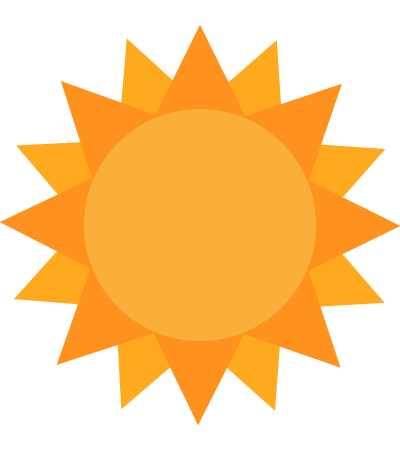
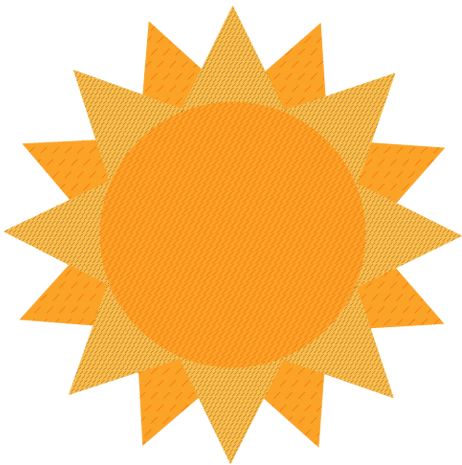
final update

diff --git a/public/css/global.css b/public/css/global.css
@@ -11,13 +11,16 @@ body#sunny {
 	font-size: 24px;
 	color: #fff;
 	position: relative;
+	background-image: url("../img/bg_blue5.png");
+background-repeat: repeat;
 }
 
 body#not-sunny {
-	background-color: #333;
+background-image: url("../img/bg_notsunny.png");
+background-repeat: repeat;
 	font-family: "Ariel", "Helvetica", "sans-serif";
 	font-size: 24px;
-	color: #333;
+	color: #fff;
 	position: relative;
 }
 
@@ -45,18 +48,18 @@ h1, h2 {
 	margin: 0 auto;
 	background-image: url("../img/sun.png");
 	background-repeat: no-repeat;
-	height: 550px;
-	padding: 10px 30px 30px 30px;
+	height: 481px;
+	padding: 30px 30px 30px 30px;
 	background-position: top center;
 }
 
 #not-sunny #main-content {
 	width: 600px;
 	margin: 0 auto;
-	background-image: url("../img/clouds.png");
+	background-image: url("../img/clouds3.png");
 	background-repeat: no-repeat;
-	height: 366px;
-	padding: 10px 30px 30px 30px;
+	height: 364px;
+	padding: 30px 30px 30px 30px;
 	background-position: center;
 }
 
@@ -65,7 +68,7 @@ h1, h2 {
 }
 
 #not-sunny #text {
-	margin-top: 170px;
+	margin-top: 150px;
 }
 
 
@@ -75,19 +78,32 @@ h1, h2 {
 /* FOOTER ----------------------------------------*/
 
 #sunny #footer {
-	height: 123px;
-	background-image: url("../img/flowers.png");
+	height: 299px;
+	background-image: url("../img/trees_green.png");
 	background-position: top center;
 	background-repeat: no-repeat;
 	width: 100%;
 	position: fixed;
 	bottom: 0;
 	left: 0;
+	z-index: 9999;
+	}
+	
+#not-sunny #footer {
+	height: 299px;
+	background-image: url("../img/trees_blck.png");
+	background-position: top center;
+	background-repeat: no-repeat;
+	width: 100%;
+	position: fixed;
+	bottom: 0;
+	left: 0;
+	z-index: 1000;
 	}
 	
 #sunny #bottom-bar {
 	height: 30px;
-	background-color: #009245;
+	background-color: #078439;
 	width: 100%;
 	position: fixed;
 	bottom: 0;
@@ -96,7 +112,7 @@ h1, h2 {
 
 #not-sunny #bottom-bar {
 	height: 30px;
-	background-color: #104774;
+	background-color: #231f20;
 	width: 100%;
 	position: fixed;
 	bottom: 0;

diff --git a/app/models/weather.rb b/app/models/weather.rb
@@ -12,6 +12,8 @@ class Weather < ActiveRecord::Base
          verdict = "sunny"
        when 'fair'
          verdict = "sunny"
+       when 'partly cloudy'
+         verdict = "sunny"
        else
           verdict = "cloudy"
        end
